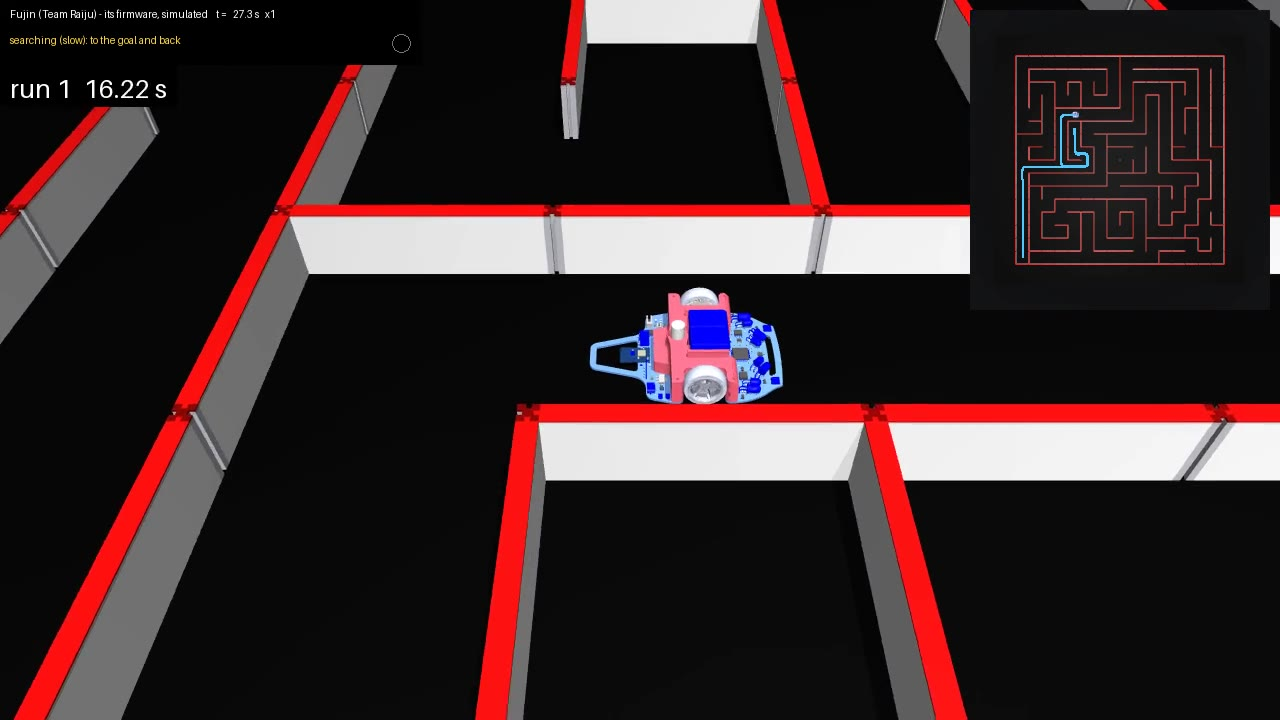
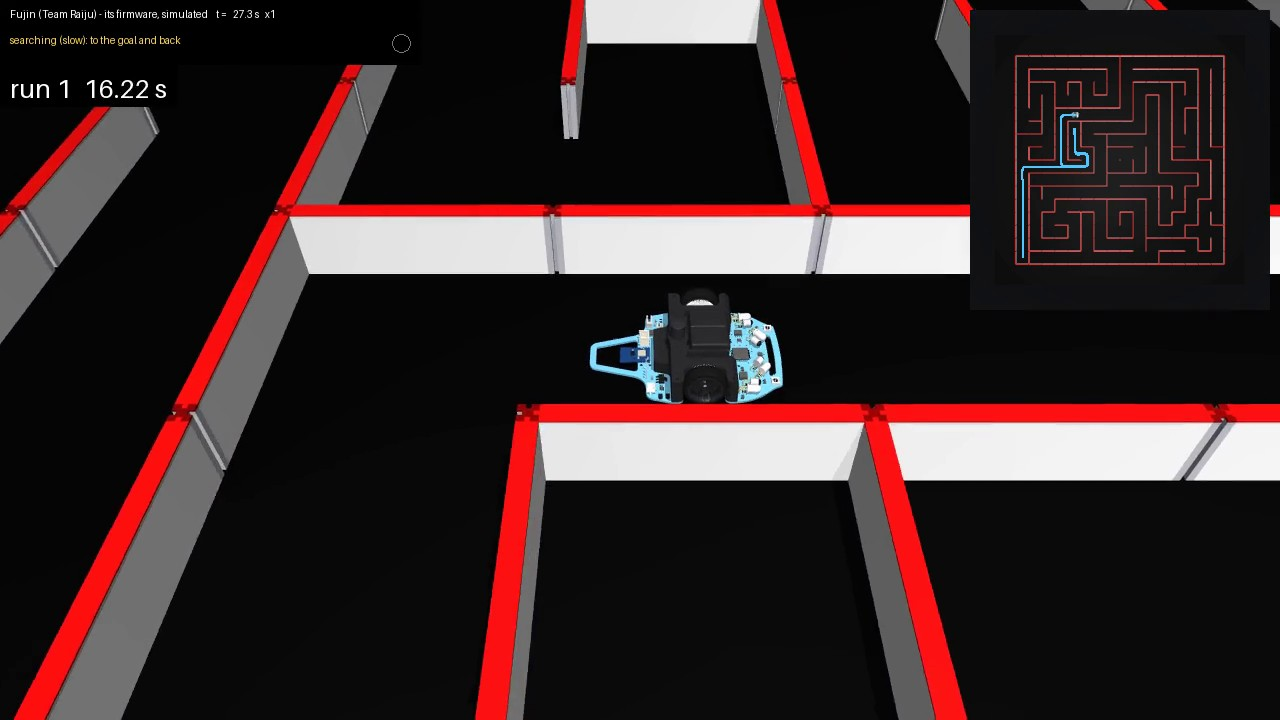
Fujin in its colours, from its team's photos (raiju.team) rather than its STEP's: its board sky blue, its printed frame, wheels, encoders' hubs and fan black, its tyres and its battery's tape black, its gears white, its coreless motors' black cans, its bearings and pins metal, its emitters water-cle

Changed region(s): [[0.4688, 0.3972, 0.625, 0.5806]]

diff --git a/ratasim/fujin/cad.py b/ratasim/fujin/cad.py
@@ -5,7 +5,7 @@ the wheels, found from the two tyres).
 
     python -m ratasim.fujin.cad [STEP OUT_DIR]
 
-The simulator calls ensure(), which needs gmsh only when the meshes are missing or older than the STEP.
+The simulator calls ensure(), which needs gmsh only when the meshes are missing or older than the STEP or this file.
 
 Writes OUT_DIR/<body>_<n>.stl and OUT_DIR/manifest.json: [{"file", "body", "rgba", "parts"}], body in chassis,
 wheel_l, wheel_r.
@@ -20,6 +20,51 @@ from . import config as F
 
 WHEEL_PARTS = ('pneu_miniz', 'MM_wheel', 'spur_gear', 'MM_Encoder_hub')     # turn with the wheel
 TYRE = 'pneu_miniz'
+
+# Its colours, as in its team's photos (raiju.team/fujin: the robot on a table, its board from below and from above,
+# its printed frame, its fan), not the STEP's (a pink frame, light grey tyres, every uncoloured part blue).
+BOARD_RGB = (105, 178, 212)         # its board, printed sky blue (its art left out; darker than in its photos,
+                                    # which the studio's lights wash out)
+PRINTED_RGB = (34, 34, 36)          # its frame, wheels, encoders' hubs and fan: black PLA
+TYRE_RGB = (22, 22, 22)
+METAL_RGB = (190, 192, 198)
+PART_RGB = (                        # name contains: colour
+    (('MM_frame', 'MM_wheel', 'MM_Encoder_hub', 'MM_fan'), PRINTED_RGB),
+    ((TYRE,), TYRE_RGB),
+    (('spur_gear',), (236, 236, 230)),               # white
+    (('MM_8523_motor',), (40, 40, 44)),               # its coreless motors' black cans
+    (('SKF_', 'Cylinder'), METAL_RGB),               # the wheels' bearings, its pin header
+    (('cap0603',), (160, 125, 85)),
+    (('SW3dPS-0603', 'CircuitWorks-SOT-223', 'b3u-1000p'), (25, 25, 25)),
+    (('ws2812B',), (240, 240, 232)),
+    (('9.6.1.1', '9.63.1.1'), (235, 228, 210)),      # its JST connectors
+)
+UNCOLOURED = (0, 0, 255)            # what gmsh gives a part with no colour in the STEP
+
+
+def colour(name, rgb, tris):
+    """Its colour (as its photos show), by its name or, for the STEP's unnamed parts, by its size and place (tris in
+    the robot frame)."""
+    v = tris.reshape(-1, 3)
+    size = sorted(v.max(0) - v.min(0))
+    if size[0] < 2 and size[2] > 70:
+        return BOARD_RGB
+    for keys, c in PART_RGB:
+        if any(k in name for k in keys):
+            return c
+    if tuple(rgb) != UNCOLOURED:
+        return tuple(rgb)
+    if np.abs((v.min(0) + v.max(0))[1:] / 2).max() < 0.5:
+        return METAL_RGB            # on the axle: its bearings' balls and rings
+    if size[2] > 20:
+        return PRINTED_RGB          # its 3S battery's cells, wrapped in black tape
+    if len(tris) > 5000 or max(size) > 12:
+        return METAL_RGB            # its phototransistors' cans, the header's pins
+    if size[0] > 5 and len(tris) < 400:
+        return (225, 225, 235)      # its emitters: water-clear 5 mm LEDs
+    if 5.5 < size[2] < 6:
+        return (200, 165, 90)       # the sensors' bent leads
+    return (22, 22, 24)             # small components' bodies
 
 
 def body(name, tris):
@@ -40,6 +85,7 @@ def build(step=F.CAD_STEP, out=F.CAD_MESHES):
     groups = {}
     for name, rgb, t in parts:
         t = t - axle
+        rgb = colour(name, rgb, t)
         groups.setdefault((body(name, t), rgb), []).append((name, t))
     os.makedirs(out, exist_ok=True)
     manifest = []
@@ -54,9 +100,10 @@ def build(step=F.CAD_STEP, out=F.CAD_MESHES):
 
 
 def ensure(step=F.CAD_STEP, out=F.CAD_MESHES):
-    """The meshes' directory, built first if they are missing or older than the STEP."""
+    """The meshes' directory, built first if they are missing or older than the STEP or this file (its colours)."""
     m = os.path.join(out, 'manifest.json')
-    if os.path.exists(m) and (not os.path.exists(step) or os.path.getmtime(m) >= os.path.getmtime(step)):
+    if os.path.exists(m) and os.path.getmtime(m) >= os.path.getmtime(__file__) and \
+            (not os.path.exists(step) or os.path.getmtime(m) >= os.path.getmtime(step)):
         return out
     if not os.path.exists(step):
         raise SystemExit(f'Fujin: its STEP is missing ({step}): git submodule update --init external/fujin')

diff --git a/docs/robots.md b/docs/robots.md
@@ -200,8 +200,10 @@ made from the submodule at build time)
   the start to the goal and back, its map in its EEPROM.
 - **Model:** its STEP, `boards/Fujin_V1/Fujin_Body_Full.step` (its board with every component, its printed frame,
   motors, gears, Mini-Z wheels and fan), tessellated with gmsh at build time (`ratasim/fujin/cad.py`, as ZoroBot3's)
-  and merged per body and colour; the axle found from its tyres. Collisions: boxes over its board's outline, its
-  tyres, two skids. Its tyres are drawn at its firmware's radius (13.25 mm; 12.6 in its CAD).
+  and merged per body and colour; the axle found from its tyres. Its colours are its team's photos'
+  ([raiju.team](https://raiju.team)), not its STEP's: its board sky blue, its printed frame, wheels and fan black,
+  its tyres and its battery's tape black, its gears white, its emitters water-clear. Collisions: boxes over its
+  board's outline, its tyres, two skids. Its tyres are drawn at its firmware's radius (13.25 mm; 12.6 in its CAD).
 - **Sensors:** where its STEP puts the emitters: the front pair looking ahead, the side pair crossed, 50 deg off
   ahead. The side readings scaled to its firmware's references with the robot centred in a cell (180 mm left,
   165 mm right; its mm are not the beam's), the front ones the beam. Its firmware's side sensor angle (56.5 deg, for
